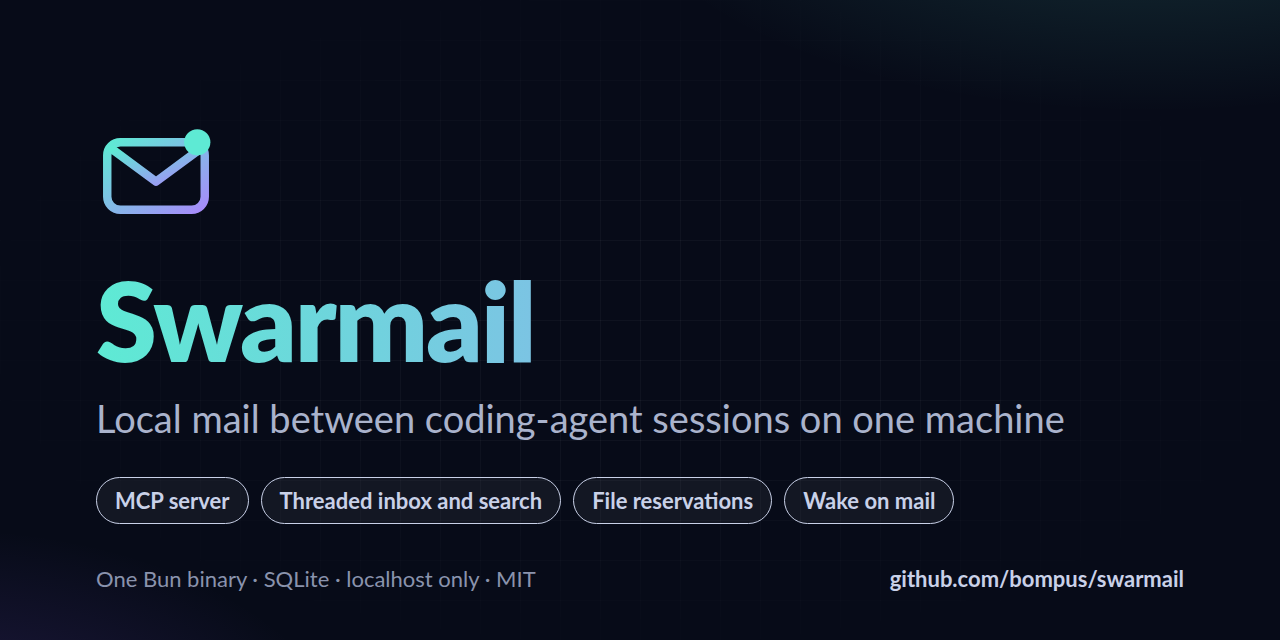
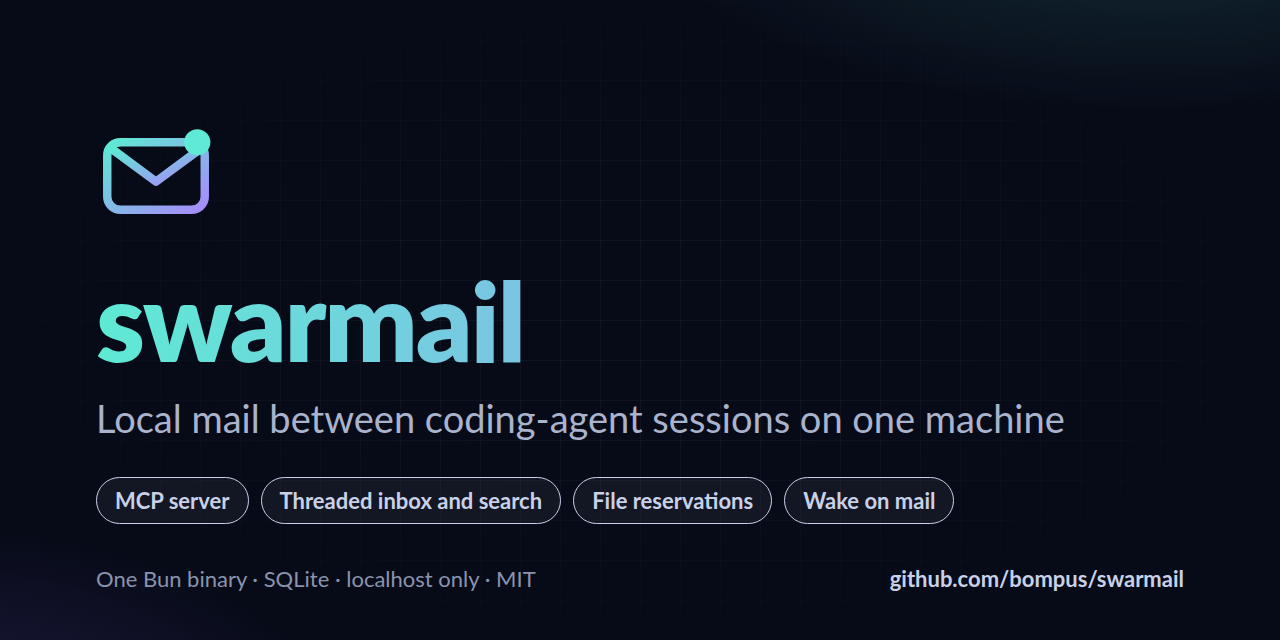
docs: lowercase name in the social preview, and the script that renders the assets (#168)
* docs: use the lowercase name in the social preview, matching the banner

* docs: add the script that renders the banners and social preview

* fix: keep cleaning up when Chrome fails in render-assets

Changed region(s): [[0.0625, 0.4375, 0.4375, 0.5938]]

diff --git a/scripts/render-assets.ts b/scripts/render-assets.ts
@@ -1,0 +1,118 @@
+// Renders the README banners and the GitHub social preview in docs/assets/ from one template.
+//   CHROME=/path/to/chrome bun scripts/render-assets.ts [outDir]
+// CHROME is a Chrome or Chromium binary; it renders each page with its --headless --screenshot flags.
+// The pages use the Lato font, which must be installed for the output to match the committed files.
+// Chrome's --force-device-scale-factor draws 2x text edges slightly unlike Playwright, which made the
+// committed banners; the 1x social preview comes out identical.
+// The social preview reaches GitHub only by a manual upload (see docs/assets/README.md).
+import { mkdtempSync, rmSync, writeFileSync } from "node:fs";
+import { tmpdir } from "node:os";
+import { join, resolve } from "node:path";
+
+const chrome = process.env.CHROME;
+if (!chrome) {
+  console.error("Set CHROME to a Chrome or Chromium binary.");
+  process.exit(1);
+}
+const outDir = resolve(process.argv[2] ?? "docs/assets");
+
+const NAME = "swarmail";
+const TAGLINE = "Local mail between coding-agent sessions on one machine";
+const CHIPS = ["MCP server", "Threaded inbox and search", "File reservations", "Wake on mail"];
+const FACTS = "One Bun binary · SQLite · localhost only · MIT";
+
+const BASE_CSS = `
+  *{box-sizing:border-box;margin:0;padding:0}
+  html,body{overflow:hidden}
+  body{font-family:Lato,'Ubuntu Sans',sans-serif;color:#e8ecf8;
+    background:radial-gradient(1200px 700px at 85% -10%,rgba(94,234,212,.16),transparent 60%),
+      radial-gradient(900px 600px at -10% 110%,rgba(139,92,246,.20),transparent 60%),#070b18;}
+  .grid{position:absolute;inset:0;background-image:linear-gradient(rgba(255,255,255,.035) 1px,transparent 1px),
+    linear-gradient(90deg,rgba(255,255,255,.035) 1px,transparent 1px);background-size:40px 40px;
+    mask-image:radial-gradient(ellipse at center,#000 30%,transparent 80%)}
+  .grad{background:linear-gradient(90deg,#5eead4,#a78bfa);-webkit-background-clip:text;background-clip:text;color:transparent}
+`;
+
+const THEME_CSS = {
+  dark: `body{color:#e8ecf8;background:radial-gradient(900px 400px at 90% -20%,rgba(94,234,212,.18),transparent 60%),
+        radial-gradient(700px 400px at -5% 120%,rgba(139,92,246,.22),transparent 60%),#070b18}
+       .tag{color:#aab3cc}.chip{background:rgba(255,255,255,.05);border-color:rgba(255,255,255,.12);color:#c9d1e8}
+       .facts{color:#8a93ad}`,
+  light: `body{color:#0f172a;background:radial-gradient(900px 400px at 90% -20%,rgba(20,184,166,.16),transparent 60%),
+        radial-gradient(700px 400px at -5% 120%,rgba(139,92,246,.14),transparent 60%),#f8fafc}
+       .grid{background-image:linear-gradient(rgba(15,23,42,.05) 1px,transparent 1px),linear-gradient(90deg,rgba(15,23,42,.05) 1px,transparent 1px)}
+       .grad{background:linear-gradient(90deg,#0d9488,#7c3aed);-webkit-background-clip:text;background-clip:text;color:transparent}
+       .tag{color:#334155}.chip{background:rgba(255,255,255,.8);border-color:rgba(15,23,42,.12);color:#334155}
+       .facts{color:#64748b}`,
+};
+
+const mark = (
+  size: number,
+) => `<svg width="${size}" height="${size}" viewBox="0 0 64 64"><defs><linearGradient id="g" x1="0" y1="0" x2="1" y2="1">
+      <stop offset="0" stop-color="#5eead4"/><stop offset="1" stop-color="#a78bfa"/></linearGradient></defs>
+      <rect x="6" y="14" width="52" height="36" rx="7" fill="none" stroke="url(#g)" stroke-width="4.5"/>
+      <path d="M9 18 L32 35 L55 18" fill="none" stroke="url(#g)" stroke-width="4.5" stroke-linejoin="round" stroke-linecap="round"/>
+      <circle cx="54" cy="14" r="7" fill="#5eead4"/></svg>`;
+
+const chips = CHIPS.map((c) => `<span class="chip">${c}</span>`).join("");
+
+const banner = (theme: keyof typeof THEME_CSS) => `<!doctype html><html><head><style>${BASE_CSS}
+    html,body{width:1280px;height:320px}
+    ${THEME_CSS[theme]}
+    .row{position:absolute;inset:0;display:flex;align-items:center;gap:40px;padding:0 72px}
+    h1{font-size:76px;font-weight:900;letter-spacing:-.02em;line-height:1}
+    .tag{font-size:26px;margin-top:12px}
+    .chips{display:flex;gap:10px;margin-top:22px}
+    .chip{font-size:16px;font-weight:700;padding:7px 14px;border-radius:999px;border:1px solid}
+  </style></head><body><div class="grid"></div><div class="row">${mark(150)}
+    <div><h1 class="grad">${NAME}</h1><div class="tag">${TAGLINE}</div>
+    <div class="chips">${chips}</div></div></div></body></html>`;
+
+const socialPreview = `<!doctype html><html><head><style>${BASE_CSS}
+    html,body{width:1280px;height:640px}
+    ${THEME_CSS.dark}
+    .wrap{position:absolute;inset:0;padding:96px 96px;display:flex;flex-direction:column;justify-content:center}
+    h1{font-size:110px;font-weight:900;letter-spacing:-.02em;line-height:1;margin-top:28px}
+    .tag{font-size:38px;margin-top:22px;max-width:1000px;line-height:1.2}
+    .chips{display:flex;gap:12px;margin-top:36px;flex-wrap:wrap}
+    .chip{font-size:22px;font-weight:700;padding:9px 18px;border-radius:999px;border:1px solid}
+    .facts{position:absolute;left:96px;right:96px;bottom:48px;display:flex;justify-content:space-between;font-size:22px}
+    .facts b{color:#c9d1e8}
+  </style></head><body><div class="grid"></div><div class="wrap">${mark(120)}
+    <h1 class="grad">${NAME}</h1><div class="tag">${TAGLINE}</div>
+    <div class="chips">${chips}</div></div>
+    <div class="facts"><span>${FACTS}</span><b>github.com/bompus/${NAME}</b></div></body></html>`;
+
+// Banners are 1280x320 pages at 2x (2560x640 files); the social preview is 1280x640 at 1x.
+const pages = [
+  { file: "banner-dark.png", html: banner("dark"), width: 1280, height: 320, scale: 2 },
+  { file: "banner-light.png", html: banner("light"), width: 1280, height: 320, scale: 2 },
+  { file: "social-preview.png", html: socialPreview, width: 1280, height: 640, scale: 1 },
+];
+
+const work = mkdtempSync(join(tmpdir(), "swarmail-assets-"));
+try {
+  for (const page of pages) {
+    const htmlPath = join(work, page.file.replace(/\.png$/, ".html"));
+    writeFileSync(htmlPath, page.html);
+    const out = join(outDir, page.file);
+    const run = Bun.spawnSync([
+      chrome,
+      "--headless",
+      "--disable-gpu",
+      "--hide-scrollbars",
+      `--user-data-dir=${join(work, "profile")}`,
+      `--window-size=${page.width},${page.height}`,
+      `--force-device-scale-factor=${page.scale}`,
+      `--screenshot=${out}`,
+      `file://${htmlPath}`,
+    ]);
+    // Thrown, not process.exit, so the finally block still removes the work directory.
+    if (run.exitCode !== 0) {
+      throw new Error(`Chrome exited ${run.exitCode} on ${page.file}:\n${run.stderr.toString()}`);
+    }
+    console.log(`wrote ${out}`);
+  }
+} finally {
+  rmSync(work, { recursive: true, force: true });
+}

diff --git a/docs/assets/README.md b/docs/assets/README.md
@@ -5,3 +5,15 @@ the image shown when a link to the repository is shared. It is uploaded by
 hand under Settings, General, Social preview, so a change here does not reach
 GitHub by itself. When the banner (`banner-dark.png`, `banner-light.png`)
 changes, remake this image to match and upload it again.
+
+`scripts/render-assets.ts` renders both banners and the social preview from one
+template, so a change to the name, tagline or chips reaches all three. It needs
+a Chrome or Chromium binary and the Lato font:
+
+```bash
+CHROME=/path/to/chrome bun scripts/render-assets.ts
+```
+
+It renders the social preview pixel for pixel like the committed file. The
+banners were first rendered through Playwright, so a rerun redraws their text
+edges slightly differently (about 1.4% of their pixels).
